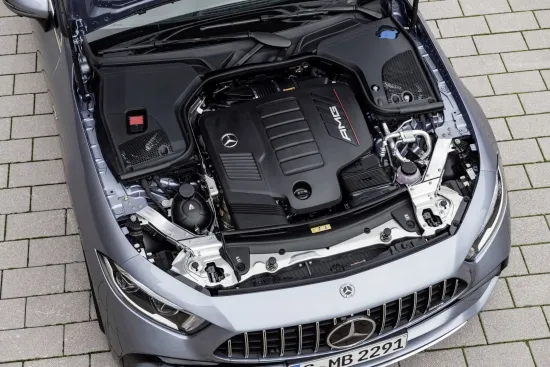
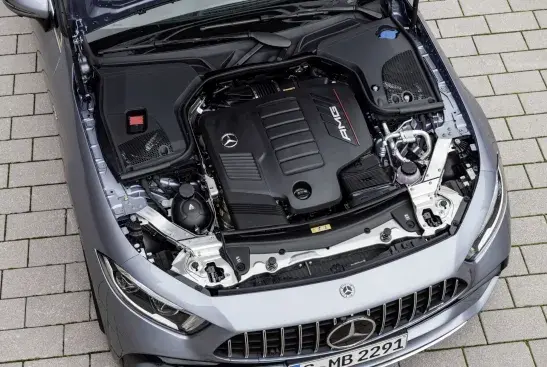
547

diff --git a/pic/ja_mb_img_cls.html b/pic/ja_mb_img_cls.html
@@ -451,9 +451,9 @@
 					<section>
 						<h4 class="displayNone">CLS53 4MATIC</h4>
 						<a href="full/cls/c257_f2_amg.jpg"><img loading="lazy" src="style/cls/c257_f2_amg.webp" alt="メルセデス,AMG,C257,CLS,3rd,フロント" width="556" height="366"></a>
-						<a href="full/cls/c257_r2_amg.jpg"><img loading="lazy" src="style/cls/c257_r2_amg.webp" alt="メルセデス,AMG,C257,CLS,3rd,リヤ" width="650" height="366"></a><br>
+						<a href="full/cls/c257_r2_amg.jpg"><img loading="lazy" src="style/cls/c257_r2_amg.webp" alt="メルセデス,AMG,C257,CLS,3rd,リヤ" width="649" height="366"></a><br>
 						<a href="full/cls/c257_d2_amg.jpg"><img loading="lazy" src="style/cls/c257_d2_amg.webp" alt="メルセデス,AMG,C257,CLS,3rd,ダッシュボード" width="658" height="370"></a>
-						<a href="full/cls/c257_m2_amg.jpg"><img loading="lazy" src="style/cls/c257_m2_amg.webp" alt="メルセデス,AMG,C257,CLS,3rd,エンジン" width="550" height="367"></a>
+						<a href="full/cls/c257_m2_amg.jpg"><img loading="lazy" src="style/cls/c257_m2_amg.webp" alt="メルセデス,AMG,C257,CLS,3rd,エンジン" width="547" height="367"></a>
 					</section>
 				</div>
 			</div>

diff --git a/pic/mb_img_cls.html b/pic/mb_img_cls.html
@@ -451,9 +451,9 @@
 					<section>
 						<h4 class="displayNone">CLS53 4MATIC</h4>
 						<a href="full/cls/c257_f2_amg.jpg"><img loading="lazy" src="style/cls/c257_f2_amg.webp" alt="Mercedes,AMG,C257,CLS,3te,Frontansicht" width="556" height="366"></a>
-						<a href="full/cls/c257_r2_amg.jpg"><img loading="lazy" src="style/cls/c257_r2_amg.webp" alt="Mercedes,AMG,C257,CLS,3te,Rückansicht" width="650" height="366"></a><br>
+						<a href="full/cls/c257_r2_amg.jpg"><img loading="lazy" src="style/cls/c257_r2_amg.webp" alt="Mercedes,AMG,C257,CLS,3te,Rückansicht" width="649" height="366"></a><br>
 						<a href="full/cls/c257_d2_amg.jpg"><img loading="lazy" src="style/cls/c257_d2_amg.webp" alt="Mercedes,AMG,C257,CLS,3te,Instrumententafel" width="658" height="370"></a>
-						<a href="full/cls/c257_m2_amg.jpg"><img loading="lazy" src="style/cls/c257_m2_amg.webp" alt="Mercedes,AMG,C257,CLS,3te,Motor" width="550" height="367"></a>
+						<a href="full/cls/c257_m2_amg.jpg"><img loading="lazy" src="style/cls/c257_m2_amg.webp" alt="Mercedes,AMG,C257,CLS,3te,Motor" width="547" height="367"></a>
 					</section>
 				</div>
 			</div>

diff --git a/pic/en_mb_img_cls.html b/pic/en_mb_img_cls.html
@@ -451,9 +451,9 @@
 					<section>
 						<h4 class="displayNone">CLS53 4MATIC</h4>
 						<a href="full/cls/c257_f2_amg.jpg"><img loading="lazy" src="style/cls/c257_f2_amg.webp" alt="Mercedes,AMG,C257,CLS,3rd,Front view" width="556" height="366"></a>
-						<a href="full/cls/c257_r2_amg.jpg"><img loading="lazy" src="style/cls/c257_r2_amg.webp" alt="Mercedes,AMG,C257,CLS,3rd,Rear view" width="650" height="366"></a><br>
+						<a href="full/cls/c257_r2_amg.jpg"><img loading="lazy" src="style/cls/c257_r2_amg.webp" alt="Mercedes,AMG,C257,CLS,3rd,Rear view" width="649" height="366"></a><br>
 						<a href="full/cls/c257_d2_amg.jpg"><img loading="lazy" src="style/cls/c257_d2_amg.webp" alt="Mercedes,AMG,C257,CLS,3rd,Dashboard" width="658" height="370"></a>
-						<a href="full/cls/c257_m2_amg.jpg"><img loading="lazy" src="style/cls/c257_m2_amg.webp" alt="Mercedes,AMG,C257,CLS,3rd,Engine" width="550" height="367"></a>
+						<a href="full/cls/c257_m2_amg.jpg"><img loading="lazy" src="style/cls/c257_m2_amg.webp" alt="Mercedes,AMG,C257,CLS,3rd,Engine" width="547" height="367"></a>
 					</section>
 				</div>
 			</div>
